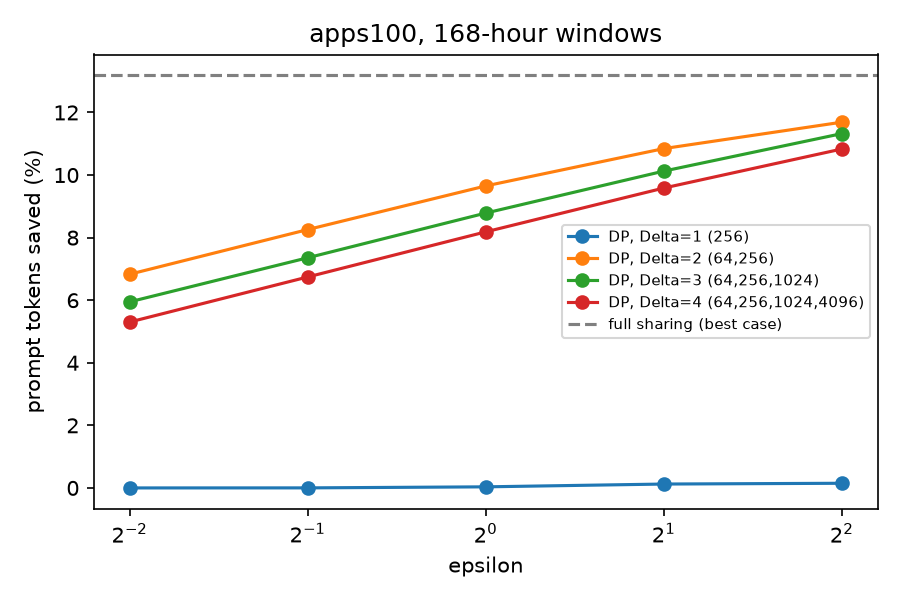
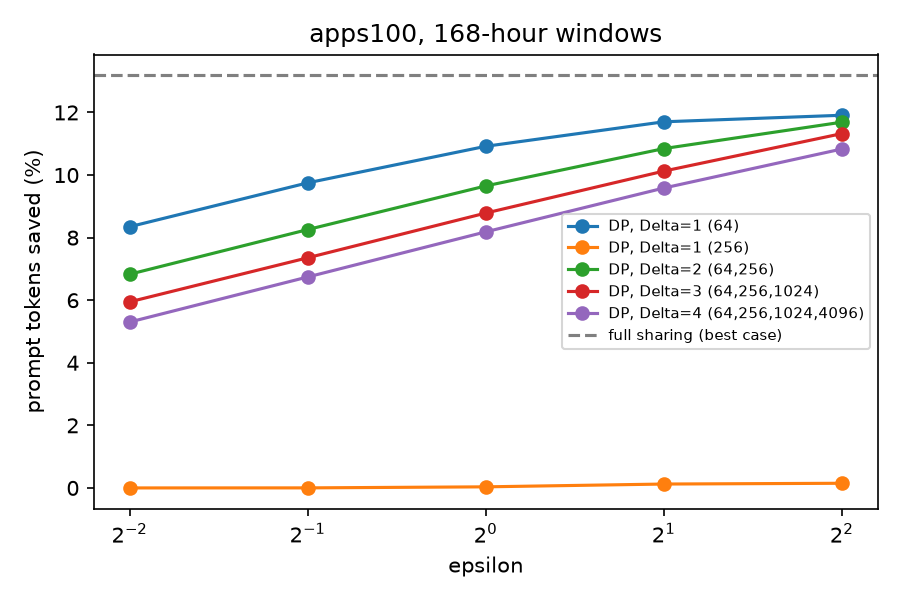
Add 64-only setting

diff --git a/scripts/sweep.py b/scripts/sweep.py
@@ -25,7 +25,7 @@ import pandas as pd
 
 from pbp.dp import tau_threshold
 
-CHECKPOINT_SETS = ["256", "64,256", "64,256,1024", "64,256,1024,4096"]
+CHECKPOINT_SETS = ["64", "256", "64,256", "64,256,1024", "64,256,1024,4096"]
 EPS_LIST = [0.25, 0.5, 1.0, 2.0, 4.0]
 WINDOWS = [168, 720]
 
